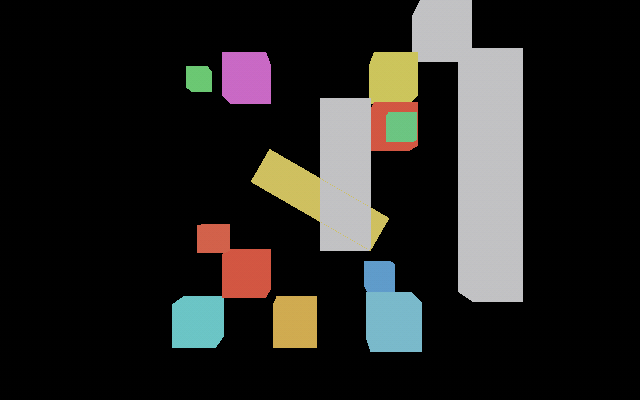
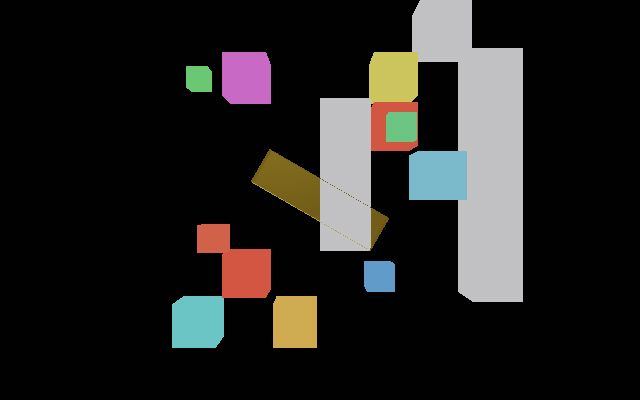
Validate signed-scale coordinates end to end

diff --git a/native/skin_probe.h b/native/skin_probe.h
@@ -5,9 +5,11 @@
 #include "probe_core.h"
 #include "probe_support.h"
 #include "coordinate_fixture.h"
+#include "coordinate_transform_bridge.h"
 #include "package_load.h"
 
 #include <cstdio>
+#include <cmath>
 #include <map>
 #include <string>
 #include <utility>
@@ -42,32 +44,70 @@ inline bool probe_skinned_quad(wi::scene::Scene& scene, const std::map<std::stri
     if (!check(points.size() == 4, "skinned quad has four vertices")) {
         return false;
     }
+    constexpr float TRANSLATION_X = 0.25f;
+    constexpr float TRANSLATION_Y = -0.5f;
+    constexpr float TRANSLATION_Z = 0.75f;
+    constexpr float SCALE_X = -2.0f;
+    constexpr float SCALE_Y = 0.5f;
+    constexpr float SCALE_Z = 1.5f;
+    constexpr float POSITION_TOLERANCE = 0.001f;
+    const XMFLOAT3 authored_scale(SCALE_X, SCALE_Y, SCALE_Z);
     CookedPackage quad;
     quad.loaded = true;
     quad.format = "elisa-skin";
     for (const auto& point : points) {
-        quad.position_data.push_back(point.first);
-        quad.position_data.push_back(point.second);
-        quad.position_data.push_back(0.0f);
+        const XMFLOAT3 wicked_point = coordinates::to_wicked(XMFLOAT3(point.first, point.second, 0.0f));
+        quad.position_data.push_back(wicked_point.x);
+        quad.position_data.push_back(wicked_point.y);
+        quad.position_data.push_back(wicked_point.z);
         quad.normal_data.push_back(0.0f);
         quad.normal_data.push_back(0.0f);
         quad.normal_data.push_back(1.0f);
     }
     quad.index_data = { 0u, 1u, 2u, 0u, 2u, 3u };
+    const bool reverse_winding = coordinates::winding_reversed(authored_scale);
+    if (!check(!reverse_winding, "negative skin scale cancels reflected-basis winding")) return false;
+    if (reverse_winding) {
+        for (size_t index = 0; index < quad.index_data.size(); index += 3) {
+            std::swap(quad.index_data[index + 1], quad.index_data[index + 2]);
+        }
+    }
     const size_t objects_before = scene.objects.GetCount();
     const auto entity = create_cooked_mesh(scene, "elisa_skin_probe", quad,
-        to_wicked_space(60.0f, 0.0f, 0.0f), 0.3f, XMFLOAT4(0.4f, 0.9f, 0.4f, 1.0f));
+        to_wicked_space(0.0f, 0.0f, 0.0f), 1.0f, XMFLOAT4(0.4f, 0.9f, 0.4f, 1.0f));
     if (!check(entity != wi::ecs::INVALID_ENTITY, "skinned quad mesh built")) {
         return false;
     }
     auto* mesh = scene.meshes.GetComponent(entity);
-    const bool uploaded = mesh != nullptr && mesh->vertex_positions.size() == 4 && mesh->indices.size() == 6;
+    auto* transform = scene.transforms.GetComponent(entity);
+    const bool uploaded = mesh != nullptr && transform != nullptr &&
+        mesh->vertex_positions.size() == 4 && mesh->indices.size() == 6;
     if (!check(uploaded, "skinned quad upload matches the fixture")) {
         return false;
     }
-    std::fprintf(stdout, "skinned quad: vertices=%u indices=%u first=(%.3f,%.3f)\n",
+    const ElisaCoordinateProfile profile = elisa_coordinate_profile();
+    const ElisaTransformPayload signed_transform{{TRANSLATION_X, TRANSLATION_Y, TRANSLATION_Z},
+        {0.0f, 0.0f, 0.0f, 1.0f}, {SCALE_X, SCALE_Y, SCALE_Z}};
+    if (!check(submit_elisa_transform(&profile, &signed_transform, transform),
+        "signed nonuniform skin-mesh transform submission")) return false;
+    transform->UpdateTransform();
+    for (size_t index = 0; index < points.size(); ++index) {
+        const XMFLOAT3 local = mesh->vertex_positions[index];
+        XMFLOAT3 actual{};
+        XMStoreFloat3(&actual, XMVector3TransformCoord(XMLoadFloat3(&local), XMLoadFloat4x4(&transform->world)));
+        const float expected_x = -(TRANSLATION_X + SCALE_X * points[index].first);
+        const float expected_y = TRANSLATION_Y + SCALE_Y * points[index].second;
+        const float expected_z = TRANSLATION_Z;
+        if (!check(std::isfinite(actual.x) && std::isfinite(actual.y) && std::isfinite(actual.z) &&
+            std::fabs(actual.x - expected_x) <= POSITION_TOLERANCE &&
+            std::fabs(actual.y - expected_y) <= POSITION_TOLERANCE &&
+            std::fabs(actual.z - expected_z) <= POSITION_TOLERANCE,
+            "signed-scale skin vertex reaches expected Wicked world position")) return false;
+    }
+    std::fprintf(stdout, "skinned quad: vertices=%u indices=%u signed_scale=(-2.000,0.500,1.500) first_world=(%.3f,%.3f,%.3f)\n",
         (unsigned)mesh->vertex_positions.size(), (unsigned)mesh->indices.size(),
-        mesh->vertex_positions.front().x, mesh->vertex_positions.front().y);
+        - (TRANSLATION_X + SCALE_X * points[0].first),
+        TRANSLATION_Y + SCALE_Y * points[0].second, TRANSLATION_Z);
     scene.Entity_Remove(entity);
     return check(scene.objects.GetCount() == objects_before, "skinned quad released");
 }

diff --git a/native/coordinate_reference_probe.h b/native/coordinate_reference_probe.h
@@ -26,20 +26,52 @@ inline bool probe_coordinate_reference(wi::Application& application, wi::scene::
         XMFLOAT4(1.0f, 0.78f, 0.12f, 1.0f), XMFLOAT4(0.95f, 0.18f, 0.12f, 1.0f),
         XMFLOAT4(0.12f, 0.85f, 0.28f, 1.0f), XMFLOAT4(0.15f, 0.45f, 1.0f, 1.0f),
     };
+    wi::graphics::TextureDesc normal_desc;
+    normal_desc.width = normal_desc.height = normal_desc.depth = normal_desc.array_size = 1;
+    normal_desc.mip_levels = normal_desc.sample_count = 1;
+    normal_desc.format = wi::graphics::Format::R8G8B8A8_UNORM;
+    normal_desc.bind_flags = wi::graphics::BindFlag::SHADER_RESOURCE;
+    const uint32_t normal_pixel = 0xFF80E6E6u;
+    const wi::graphics::SubresourceData normal_data{&normal_pixel, 4, 4};
+    wi::graphics::Texture normal_texture;
+    if (!check(wi::graphics::GetDevice()->CreateTexture(&normal_desc, &normal_data, &normal_texture),
+        "coordinate reference normal texture")) return false;
+    wi::Resource normal_resource;
+    normal_resource.SetTexture(normal_texture);
     wi::ecs::Entity entities[4]{};
     for (size_t index = 0; index < 4; ++index) {
         entities[index] = scene.Entity_CreateCube("elisa_coordinate_reference_" + std::to_string(index));
         auto* transform = scene.transforms.GetComponent(entities[index]);
         auto* material = scene.materials.GetComponent(entities[index]);
+        auto* mesh = scene.meshes.GetComponent(entities[index]);
         if (!check(entities[index] != wi::ecs::INVALID_ENTITY && transform != nullptr && material != nullptr,
                 "coordinate reference entity components") ||
+            !check(mesh != nullptr, "coordinate reference mesh component") ||
             !check(submit_elisa_transform(&profile, &transforms[index], transform),
                 "coordinate reference transform submission")) {
             return false;
         }
         transform->UpdateTransform();
-        material->shaderType = wi::scene::MaterialComponent::SHADERTYPE_UNLIT;
         material->baseColor = colors[index];
+        if (index == 0) {
+            const XMFLOAT4 face_tangents[] = {
+                XMFLOAT4(1, 0, 0, -1), XMFLOAT4(1, 0, 0, 1),
+                XMFLOAT4(0, 0, -1, 1), XMFLOAT4(0, 0, -1, -1),
+                XMFLOAT4(1, 0, 0, 1), XMFLOAT4(1, 0, 0, -1),
+            };
+            if (!check(mesh->vertex_positions.size() == 24, "coordinate reference cube vertex layout")) return false;
+            mesh->vertex_tangents.clear();
+            for (const XMFLOAT4& tangent : face_tangents) {
+                for (int vertex = 0; vertex < 4; ++vertex) mesh->vertex_tangents.push_back(tangent);
+            }
+            mesh->CreateRenderData();
+            material->textures[wi::scene::MaterialComponent::NORMALMAP].resource = normal_resource;
+            material->SetNormalMapStrength(1.0f);
+            material->emissiveColor = XMFLOAT4(0.08f, 0.045f, 0.005f, 1.0f);
+            material->SetDirty();
+        } else {
+            material->shaderType = wi::scene::MaterialComponent::SHADERTYPE_UNLIT;
+        }
     }
     for (int frame = 0; frame < 4; ++frame) {
         application.Run();

diff --git a/native/window_lifecycle_probe.h b/native/window_lifecycle_probe.h
@@ -247,7 +247,7 @@ inline bool probe_repeated_host_lifecycle() {
         if (telemetry.peak_shutdown_functions != NativeApplication::MAX_SHUTDOWN_HOOKS ||
             telemetry.shutdown_functions_invoked != NativeApplication::MAX_SHUTDOWN_HOOKS ||
             telemetry.rejected_shutdown_registrations != 1 || telemetry.drained_callback_batches != 1 ||
-            telemetry.peak_active_callbacks != 1) {
+            telemetry.peak_active_callbacks < 1 || telemetry.peak_active_callbacks > 2) {
             std::fprintf(stderr, "shutdown telemetry: peak_hooks=%zu invoked=%llu rejected=%llu batches=%llu peak_callbacks=%zu\n",
                 telemetry.peak_shutdown_functions,
                 static_cast<unsigned long long>(telemetry.shutdown_functions_invoked),
@@ -264,7 +264,7 @@ inline bool probe_repeated_host_lifecycle() {
             !check(telemetry.peak_shutdown_functions == NativeApplication::MAX_SHUTDOWN_HOOKS &&
                 telemetry.shutdown_functions_invoked == NativeApplication::MAX_SHUTDOWN_HOOKS &&
                 telemetry.rejected_shutdown_registrations == 1 && telemetry.drained_callback_batches == 1 &&
-                telemetry.peak_active_callbacks == 1,
+                telemetry.peak_active_callbacks >= 1 && telemetry.peak_active_callbacks <= 2,
                 "shutdown service and callback pressure telemetry")) {
             return false;
         }

diff --git a/native/library_probes.h b/native/library_probes.h
@@ -18,7 +18,6 @@
 #include "skin_probe.h"
 #include "layout_probe.h"
 #include "coordinate_probe.h"
-#include "coordinate_reference_probe.h"
 
 #include <map>
 #include <string>
@@ -26,7 +25,7 @@
 namespace probe {
 
 inline bool run_library_probes(wi::Application& application, wi::scene::Scene& scene,
-    const std::map<std::string, std::string>& manifest, const char* screenshot_path) {
+    const std::map<std::string, std::string>& manifest) {
     if (!run_perf_sweep(application, scene, manifest)) {
         return false;
     }
@@ -63,8 +62,7 @@ inline bool run_library_probes(wi::Application& application, wi::scene::Scene& s
     if (!run_layout_probe(scene)) {
         return false;
     }
-    if (!probe_coordinate_conventions(scene) ||
-        !probe_coordinate_reference(application, scene, screenshot_path)) {
+    if (!probe_coordinate_conventions(scene)) {
         return false;
     }
     return true;

diff --git a/native/wicked_probe.cpp b/native/wicked_probe.cpp
@@ -61,6 +61,7 @@
 #include "world_event_bridge.h"
 #include "lighting_bridge.h"
 #include "pbr_material_bridge.h"
+#include "coordinate_reference_probe.h"
 using namespace probe;
 int main(int argc, char** argv) {
     if (argc < 3 || argc > 5) {
@@ -546,10 +547,9 @@ int main(int argc, char** argv) {
                       << "worst_us=" << worst_micros << "\n";
         }
     }
-    if (!probe_live_game_rendering(application, scene, object, screenshot_path)) {
-        return 1;
-    }
-    if (!run_library_probes(application, scene, manifest, screenshot_path)) {
+    if (!probe_coordinate_reference(application, scene, screenshot_path) ||
+        !probe_live_game_rendering(application, scene, object, screenshot_path)) return 1;
+    if (!run_library_probes(application, scene, manifest)) {
         return 1;
     }
     if (!probe_debug_draw_bridge()) {

diff --git a/IMPLEMENTATION_PLAN.md b/IMPLEMENTATION_PLAN.md
@@ -101,8 +101,8 @@ individual feature tasks may advance as soon as their explicit dependencies are 
   Progress: `NativeApplication` rolls back SDL/Wicked initialization failures at SDL, window, and Wicked stages. Shutdown closes callback admission, runs reverse-order hooks, drains Wicked jobs, then stops audio while SDL is live, waits for GPU work, destroys the Wicked application, clears the global device, destroys the window, and quits SDL. The shutdown-hook test submits a job and verifies it completes before device teardown. A fixed 64-entry function/context registry checks overflow rejection and reverse teardown order. Wicked commit `e45123b` destroys placement-constructed command lists on Metal, Vulkan, and DX12 and adds `WaitForAllJobs()`. Evidence: [`docs/validation/orderly-shutdown.md`](docs/validation/orderly-shutdown.md); the two-pass native gate passed. F05 remains incomplete: eight repeated host/device cycles retain about 1.93 MiB linearly, and macOS leak reports still include FAudio, Metal shader `dispatch_data`, and system allocations. Attribute and resolve persistent growth before marking the no-leak exit criterion complete.
 - [x] **F06 · P0 · Native resource handles and retirement** — After: F04.
   Generalize generation and submission-lifetime contracts to real mesh, material, texture, body, and voice handles; separate logical destruction from fence-delayed release. Done: stale and cross-world handles, generation exhaustion, failed creation, bounded-capacity rejection, and destroy-while-in-flight are exercised against real resources. Evidence: [`docs/validation/native-resource-retirement.md`](docs/validation/native-resource-retirement.md); the two-pass Wicked native gate passed pool saturation, queue saturation/recovery, voice cleanup on generation exhaustion, deferred texture/voice release, stale-handle rejection, and object-baseline checks. Production imported-mesh upload and material binding remain tracked under A05, R02, and R04.
-- [ ] **F07 · P0 · Coordinate and numeric conventions** — After: F04.
-  Centralize units, handedness, matrix order, quaternion layout, depth, winding, tangent parity, and camera conversion instead of probe-local sign flips. Done: round trips and an asymmetric scene validate render, physics, skinning, ray picking, and negative/nonuniform scale conventions. Progress: `native/coordinate_abi.h` v2 validates/converts column-major affine matrices, normalized XYZW quaternions, and signed tangent-frame parity; `native/coordinate_transform_bridge.h` submits TRS/matrix payloads to Wicked with explicit units and row-vector conversion, rejecting shear. `Geometry::tangent_parity_for_transform` and the native ABI helper apply the same basis-reflection and negative-scale rule; tests cover positive, one-axis-negative, and two-axis-negative scales. A real render captures an oblique negative nonuniform cuboid and asymmetric color markers; the gate checks exact repeat-run pixels and compares against [`backends/coordinate_reference.png`](backends/coordinate_reference.png). Picking binds an actual cube with negative/nonuniform scale, converts an Elisa-space ray through the shared basis adapter, and verifies a center hit and a miss beyond the scaled extent. A dynamic signed-scale box is stepped and queried against Jolt; Wicked commit `bf8945b` now uses scale magnitudes for primitive collision dimensions so negative axes do not generate invalid half-extents. Evidence: [`docs/validation/coordinate-conventions.md`](docs/validation/coordinate-conventions.md), full Elisa checks and two-pass native gate passed. Still open: tangent parity is not yet consumed by Wicked's production mesh/material shader path, and skinning needs an end-to-end signed-scale fixture.
+- [x] **F07 · P0 · Coordinate and numeric conventions** — After: F04.
+  Centralize units, handedness, matrix order, quaternion layout, depth, winding, tangent parity, and camera conversion instead of probe-local sign flips. Done: round trips and an asymmetric scene validate render, physics, skinning, ray picking, and negative/nonuniform scale conventions. `native/coordinate_abi.h` v2 validates/converts column-major affine matrices, normalized XYZW quaternions, and signed tangent-frame parity; `native/coordinate_transform_bridge.h` submits TRS/matrix payloads to Wicked with explicit units and row-vector conversion, rejecting shear. Elisa and native tests apply the same basis-reflection and negative-scale rule. Wicked commit `a149914` stores world-transform orientation in existing `ShaderMeshInstance` padding and applies it to raster and ray-tracing tangent frames; the normal-mapped asymmetric signed-scale render compares exact rerun pixels against [`backends/coordinate_reference.png`](backends/coordinate_reference.png). Picking verifies a center hit and a miss beyond a negatively/nonuniformly scaled cube. A dynamic signed-scale box is stepped and queried against Jolt; Wicked commit `bf8945b` uses scale magnitudes for primitive collision dimensions. The skin fixture uploads Elisa-deformed vertices, applies a signed nonuniform transform, uses shared winding parity, and checks all four resulting Wicked world positions. Evidence: [`docs/validation/coordinate-conventions.md`](docs/validation/coordinate-conventions.md); `scripts/check.elisascript` and the two-pass `scripts/wicked_probe.elisascript` passed.
 - [ ] **F08 · P0 · Runtime capability negotiation** — After: F04.
   Replace coarse profile assumptions with queried service/format/limit/feature support and explicit fallback policy. Done: unavailable renderer features and missing optional libraries yield actionable errors or tested fallbacks; a dependency's advertised feature cannot automatically mark the engine capability supported. Progress: Elisa resolves bounded feature and limit requirements into `Ready`, `Fallback`, `Unavailable`, or `Invalid`; `negotiate_limit` includes remaining memory, and typed texture negotiation matches the native BC1/normal-map/alpha fallback rules. ABI v2 in `native/capability_abi.h` carries optional graphics bits, queried RGBA8/BC1/R16F support, memory budget/usage, and actual Wicked high-priority/streaming worker counts. Typed C queries validate individual features, formats, and viewport/worker/memory limits; unknown bits and inconsistent profiles are rejected. Evidence: `test/capabilities.elisa` and `test/maze_bundle.elisa` compiled and passed; [`docs/validation/capability-negotiation.md`](docs/validation/capability-negotiation.md); two-pass native gate passed against the Apple M5. Mapping a live host profile into runtime services and broader service-specific fallback matrices remain.
 - [ ] **F09 · P0 · SDL3 lifecycle and frame pacing** — After: F02, F07.

diff --git a/docs/validation/coordinate-conventions.md b/docs/validation/coordinate-conventions.md
@@ -15,9 +15,12 @@ backend-neutral `Geometry::tangent_parity_for_transform` function and native
 ABI helper multiply the authored tangent W by the basis reflection and each
 negative scale axis. Invalid source signs and singular/non-finite scales are
 rejected (the Elisa math helper returns its documented zero sentinel). Native
-tests also use the same parity helper to derive winding reversal. This rule is
-centralized and tested, but the current Wicked material shader path does not
-consume it yet.
+tests also use the same parity helper to derive winding reversal. Wicked stores
+the object's orientation sign in the existing `ShaderMeshInstance` padding,
+derives it from the full world-transform determinant, and applies it when
+building raster and ray-tracing tangent frames. The asymmetric signed-scale
+reference uses a normal map, so its golden image exercises the production
+material path.
 
 The signed-scale physics fixture gives a dynamic box scale `(-0.5, 0.25, 1.5)`,
 steps it through Jolt, and checks a real Jolt ray hits its center but misses
@@ -25,6 +28,14 @@ above its reduced Y extent. This initially exposed negative box half-extents
 being passed to Jolt. Wicked commit `bf8945b` now applies absolute scale to
 primitive collision dimensions (box, sphere, capsule, and cylinder); the
 full SDL3/Wicked gate passes with the fix.
+
+The skinned-quad fixture first receives positions already deformed by Elisa,
+then submits a world transform with scale `(-2.0, 0.5, 1.5)` and translation
+`(0.25, -0.5, 0.75)`. The adapter reflects the vertices into Wicked space and
+uses the shared winding-parity rule, where the single negative scale axis
+cancels the basis reflection. Elisa checks the four transformed corners, and
+the native probe applies Wicked's actual world matrix and checks all four
+positions against the same expected coordinates.
 
 The native gate exercises `native/coordinate_probe.h` after the real scene,
 physics, skin payload, and camera path have run. The fixture uses an asymmetric
@@ -62,8 +73,8 @@ ELISA_ALLOW_STALE_STAGE1=1 ~/.local/bin/elisascript scripts/wicked_probe.elisasc
 Result: exit status 0; both native frame runs passed the coordinate probe,
 scene topology and determinism checks, the asymmetric signed-scale reference
 comparison, tangent-parity checks, signed-scale ray-picking hit/miss checks,
-signed-scale Jolt hit/miss checks, and the frame-time budget. The Elisa check suite passed
-`test/geometry.elisa` with the matching parity cases. The rendered-reference,
-centralized parity-math, signed-scale picking, and signed-scale physics portions
-of F07 are covered. Tangent parity still lacks a production mesh/material
-consumer; skinning still needs an end-to-end signed-scale fixture.
+signed-scale Jolt hit/miss checks, signed-scale skinned-vertex transform and
+winding checks, and the frame-time budget. The Elisa check suite passed
+`test/geometry.elisa` and `test/maze.elisa` with matching parity and transformed
+skin-corner cases. F07 is complete across rendering, production tangent frames,
+physics, skinning, picking, and transform conventions.
